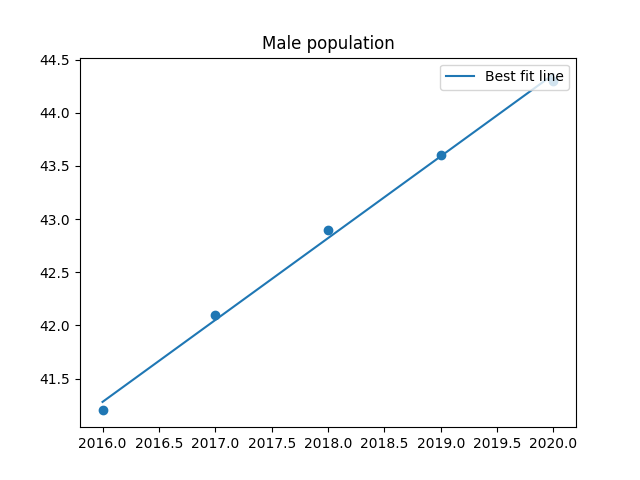
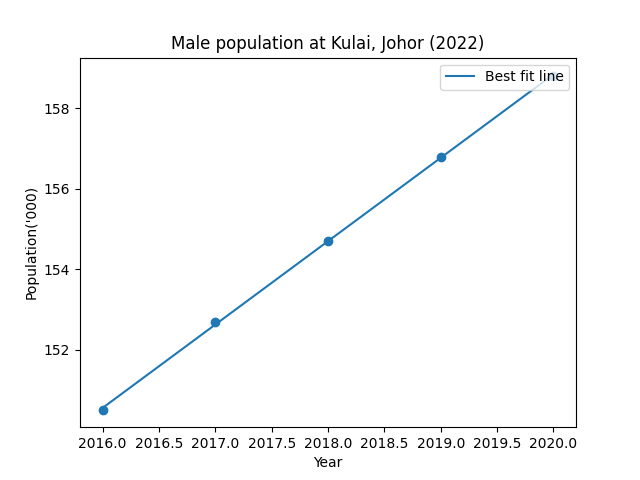
Change some graph labels.

diff --git a/BackPart.py b/BackPart.py
@@ -18,18 +18,21 @@ class PopulationPredict():
         self.cntry:list=self.csvSrc["Country/State"].drop_duplicates().to_list()
 
     def GetAdmnDstrct(self,cntryName:str)->list:
+        self.cntrySelctd:str=cntryName
+
         #Get all datas for the given country or state:
-        self.dataSrc=self.csvSrc.loc[self.csvSrc["Country/State"]==cntryName]
+        self.cntryDataSrc=self.csvSrc.loc[self.csvSrc["Country/State"]==cntryName]
 
         #Getting the administrative district for the given country:
-        admnDstrct:list=self.dataSrc["Administrative district"].drop_duplicates().to_list()
+        admnDstrct:list=self.cntryDataSrc["Administrative district"].drop_duplicates().to_list()
 
         return admnDstrct
 
     def GetDatas(self,admnstrtName:str):
-        #Get all datas for the given administative district:
+        self.admnDSelctd:str=admnstrtName
 
-        self.dataSrc=self.dataSrc.loc[self.dataSrc["Administrative district"]==admnstrtName]
+        #Get all datas for the given administative district:
+        self.dataSrc=self.cntryDataSrc.loc[self.cntryDataSrc["Administrative district"]==admnstrtName]
 
         #Get all datas by gender:
         self.mlDtFrmSrc=self.dataSrc.loc[self.dataSrc["Sex"]=="Male"]
@@ -64,10 +67,17 @@ class PopulationPredict():
         fmlPredict,self.fmlModel=self.MakePrediction(predictYear,self.fmlX,self.fmlY)
         ttlPredict,self.ttlModel=self.MakePrediction(predictYear,self.ttlX,self.ttlY)
 
+        location:str=self.cntrySelctd
+
+        if self.admnDSelctd!="None":
+            location=self.admnDSelctd+", "+location
+
         #Plotting graphs:
         plt.figure(1)   #Graph for male population.
         plt.clf()   #To clear the graph.
-        plt.title("Male population")
+        plt.title(f"Male population at {location} ({predictYear})")
+        plt.xlabel("Year")
+        plt.ylabel("Population('000)")
         mlnpx=np.array(self.mlX[:,0])   #Convert it to a 1d array.
         mlnpy=np.array(self.mlY[:,0])
         plt.scatter(mlnpx,mlnpy)    #Plot the points of the datas.
@@ -78,7 +88,9 @@ class PopulationPredict():
 
         plt.figure(2)   #Graph for female population.
         plt.clf()
-        plt.title("Female population")
+        plt.title(f"Female population at {location} ({predictYear})")
+        plt.xlabel("Year")
+        plt.ylabel("Population('000)")
         fmlnpx=np.array(self.fmlX[:,0])
         fmlnpy=np.array(self.fmlY[:,0])
         plt.scatter(fmlnpx,fmlnpy)
@@ -89,7 +101,9 @@ class PopulationPredict():
 
         plt.figure(3)   #Graph for total population.
         plt.clf()
-        plt.title("Total population")
+        plt.title(f"Total population at {location} ({predictYear})")
+        plt.xlabel("Year")
+        plt.ylabel("Population('000)")
         ttlnpx=np.array(self.ttlX[:,0])
         ttlnpy=np.array(self.ttlY)
         plt.scatter(ttlnpx,ttlnpy)
@@ -133,7 +147,7 @@ def ConsoleUI():    #Console app.
     while repeat==True:
 
         #Input country or state:
-        print(f"Countries or states in \"{srcFilePath:^20}\":")
+        print(f"Countries or states in \"{srcFilePath}\":")
 
         for i in range(len(p0.cntry)):
             print(f"Index: {i:^3}|   Country or state: {p0.cntry[i]:^16}")
@@ -158,9 +172,9 @@ def ConsoleUI():    #Console app.
         mlPrdt,fmlPrdt,ttlPrdt=p0.MakePredictions(yrPrdt)
 
         #Results:
-        print(f"Population prediction for year {yrPrdt:^4} for {p0.cntry[cntryIndex]:^16}",end="")
+        print(f"Population prediction for year {yrPrdt} for {p0.cntry[cntryIndex]}",end="")
         if admnstrt[admnstrtIndex]!="None":
-            print(f" {admnstrt[admnstrtIndex]:^16}",end="")
+            print(f", {admnstrt[admnstrtIndex]}",end="")
         print(":")
 
         print(f"Male population ('000): {mlPrdt:^8}")
